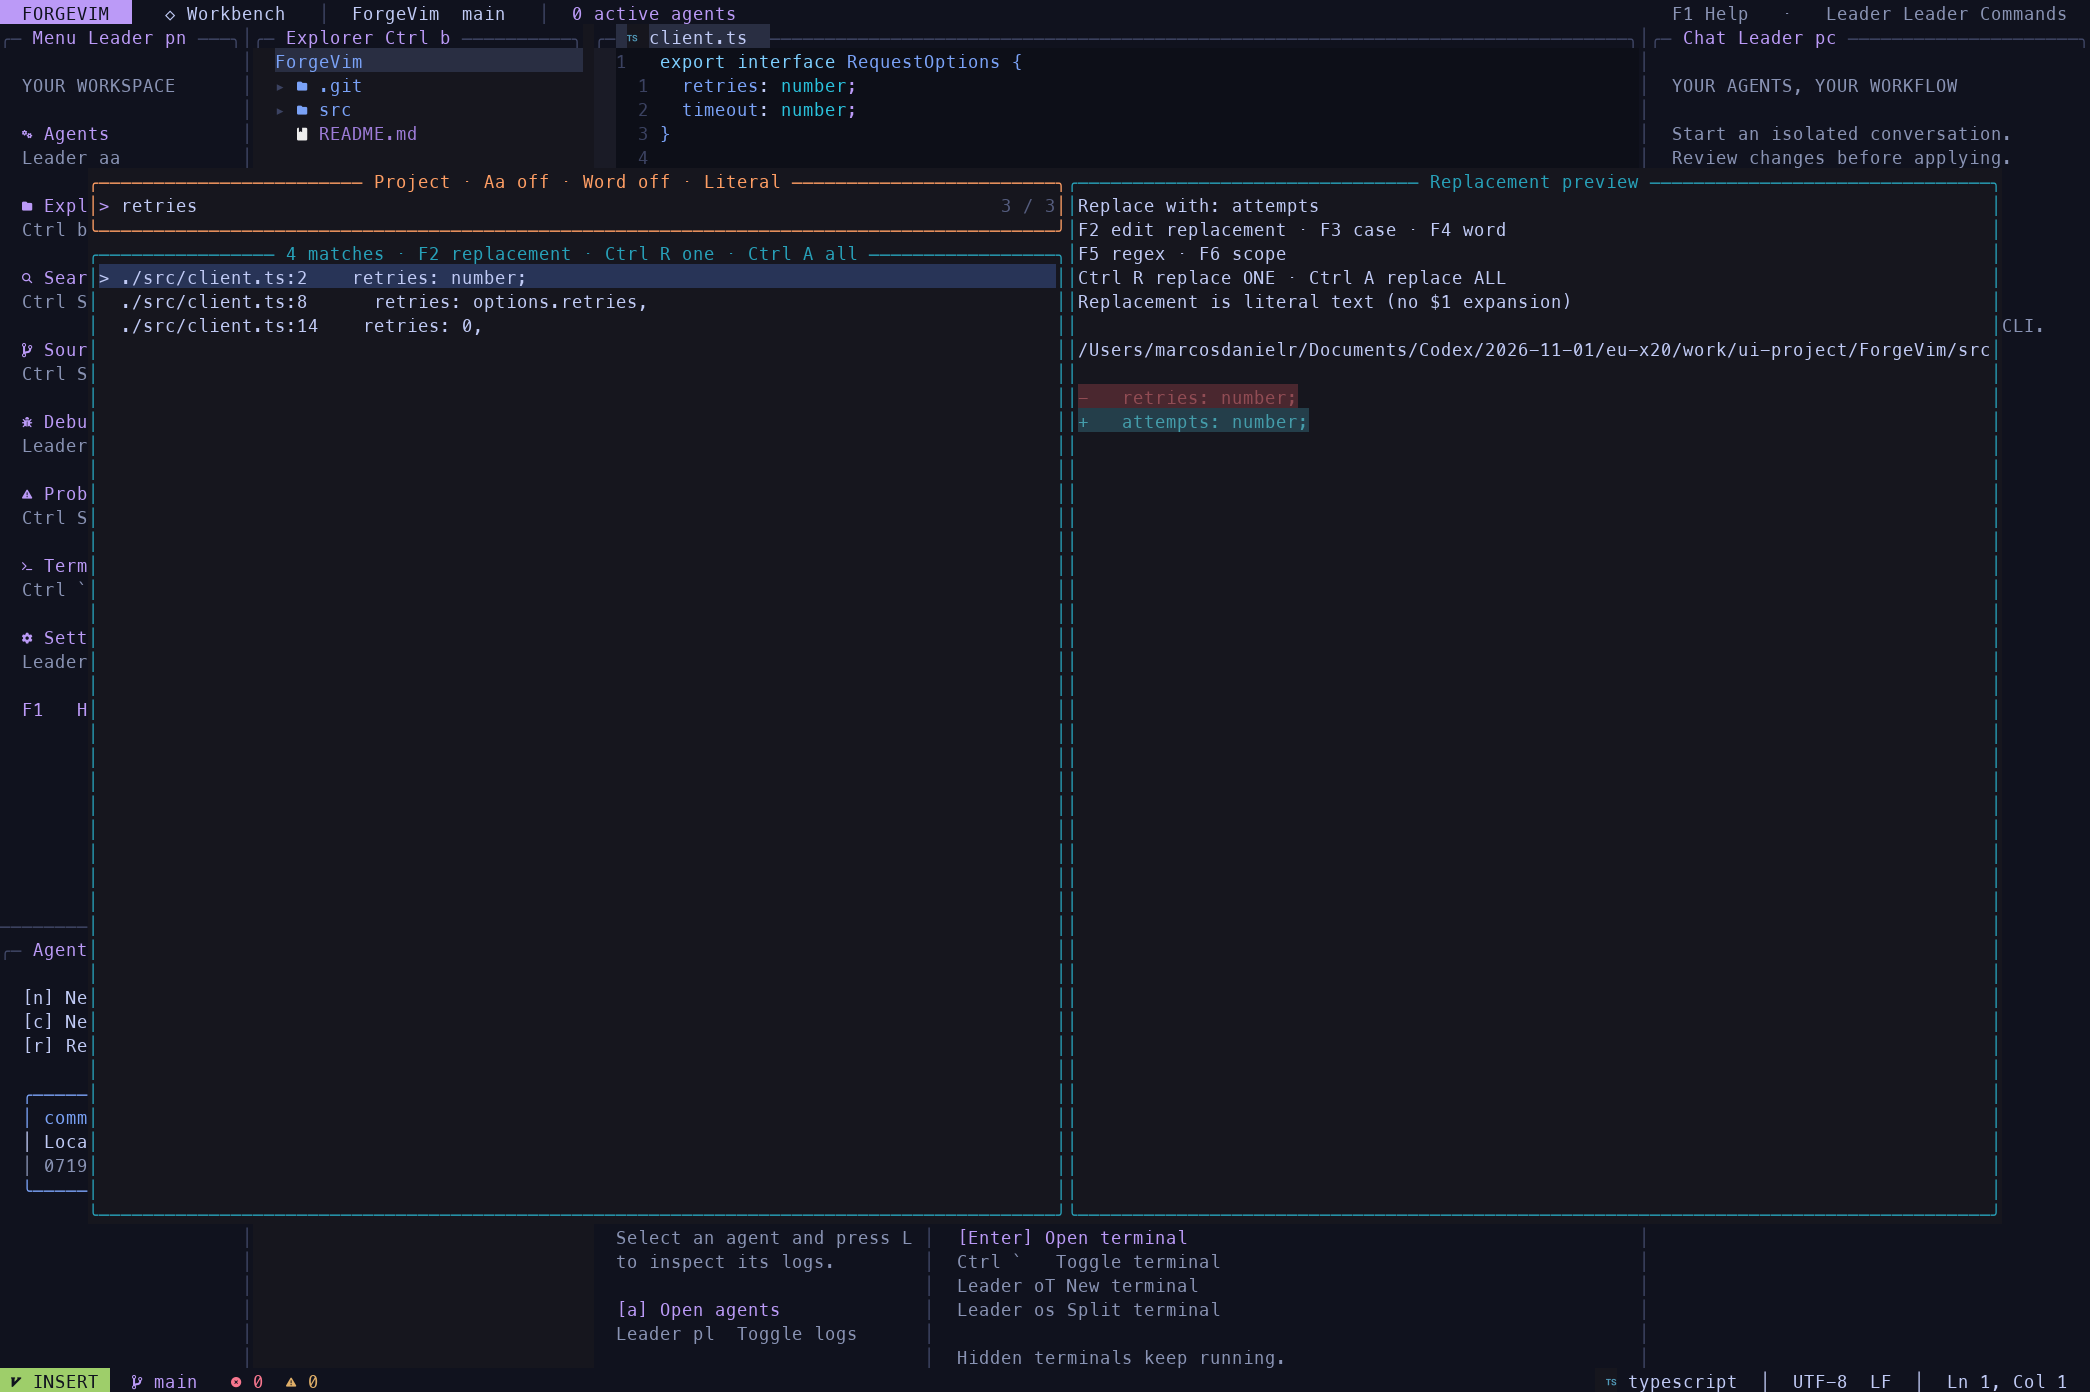
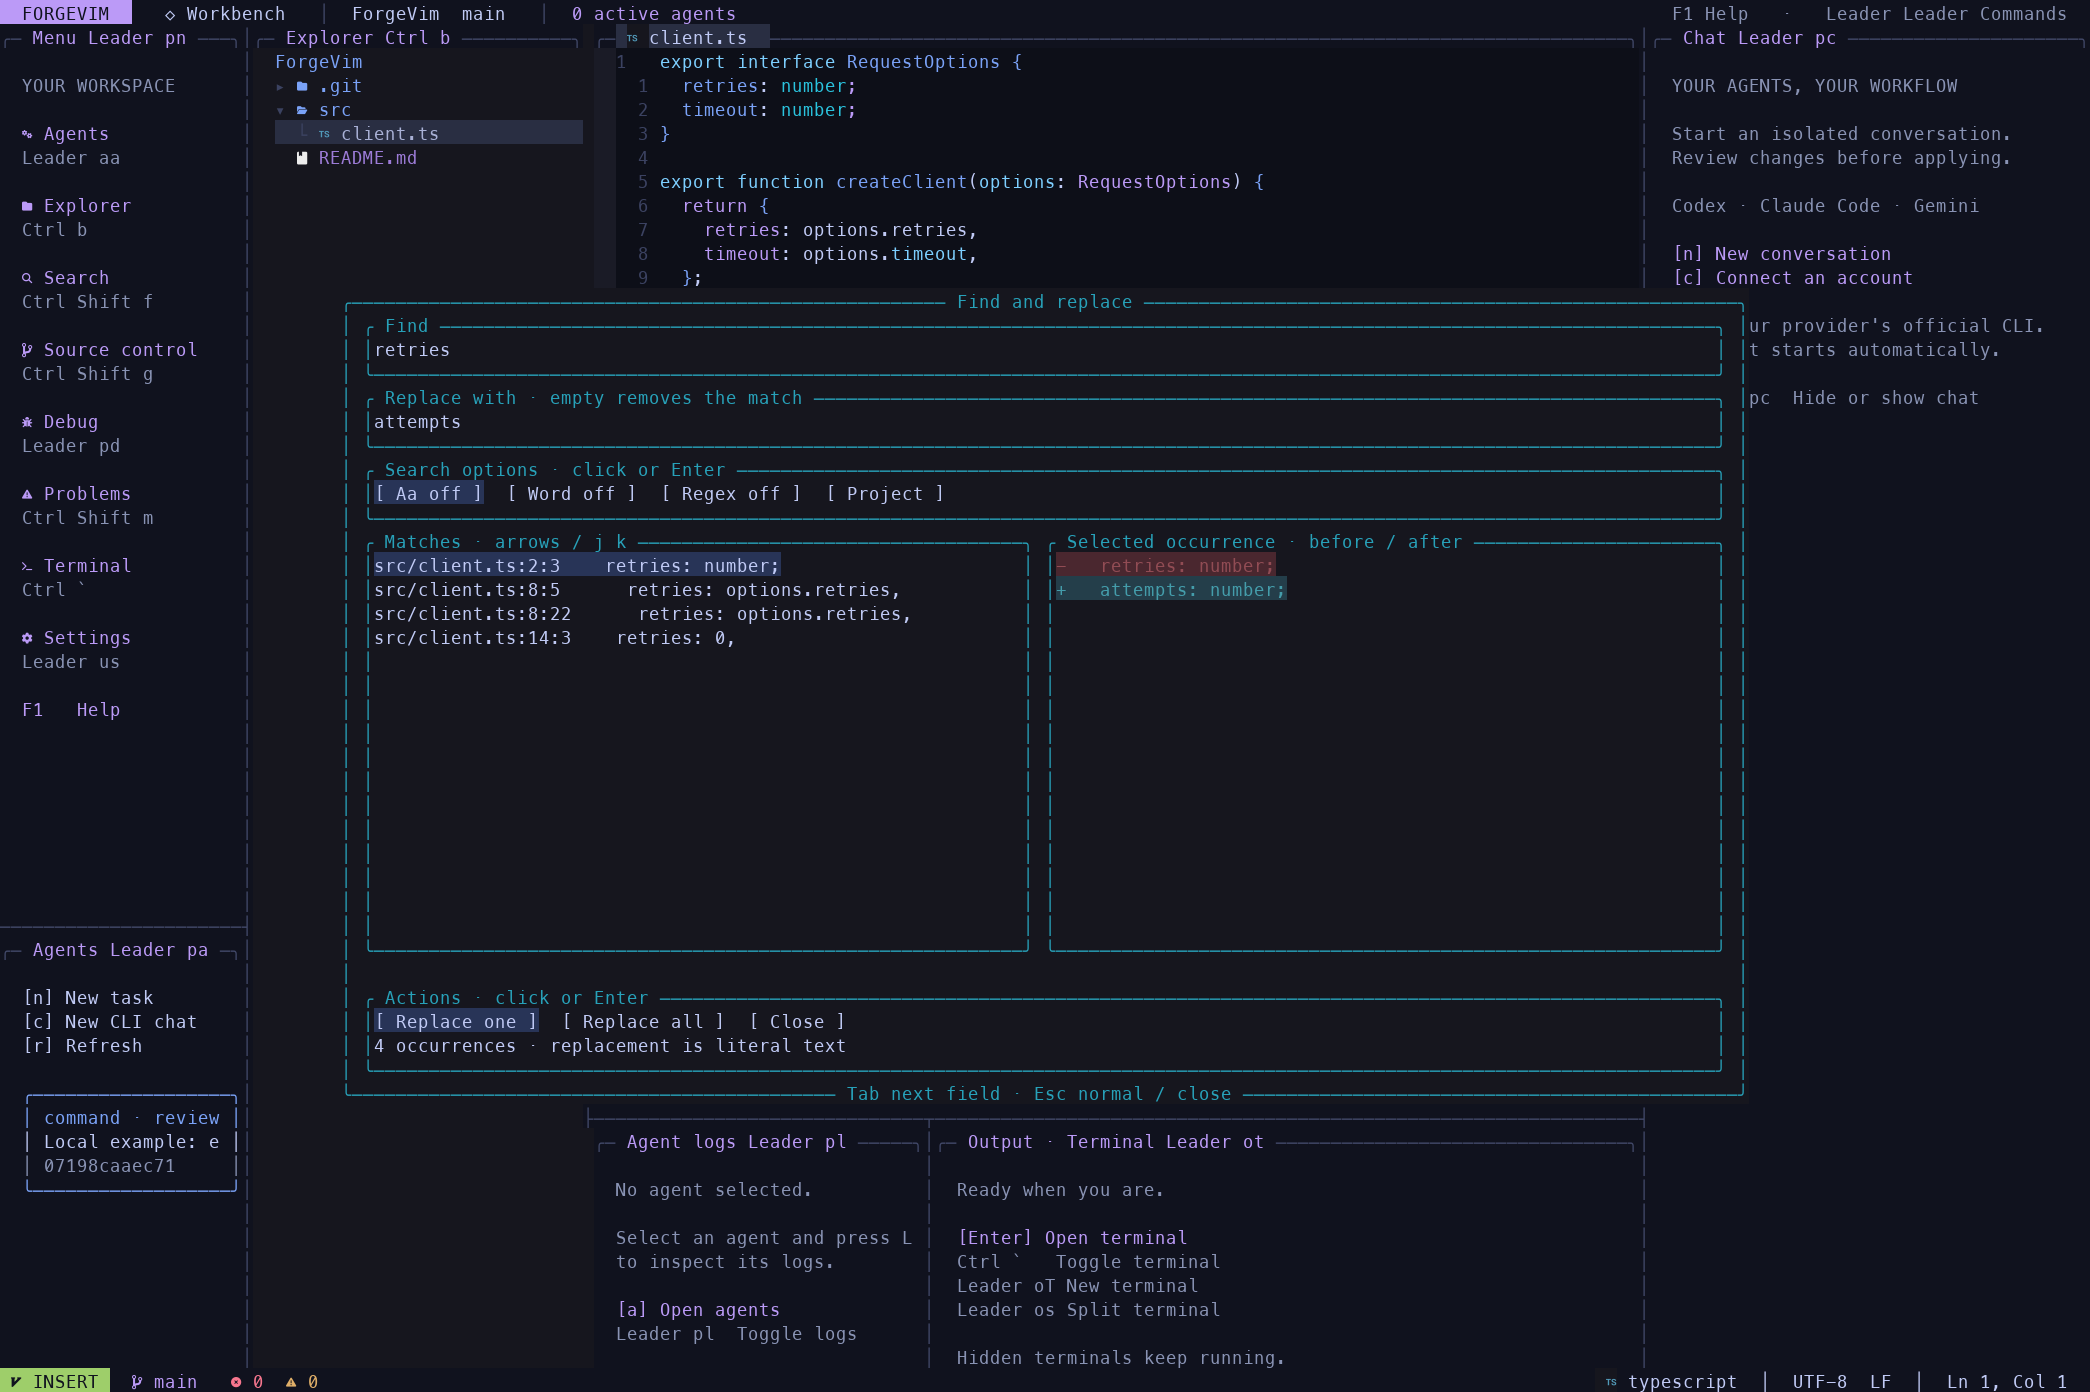
docs: explain replacement and deployment recovery

diff --git a/docs/business-rules.md b/docs/business-rules.md
@@ -115,7 +115,7 @@ plugin integration, machine setup record, and docs/languages.md.
 - **BR-AG-16**: Hiding chat keeps its owned process live while the editor is open. CLI output and logs remain separate from control JSON; ending an editor session does not imply reattachment later.
 - **BR-ED-14**: Hiding a terminal panel preserves its jobs, buffers, scrollback, and split group. Only explicit job termination or the editor terminal lifecycle can stop it.
 - **BR-ED-15**: Explorer h/l collapses/opens; j/k remains native. Ctrl H/J/K/L stays configurable across normal and Forge terminal modes. Plain source-buffer motions and insert controls remain intact.
-- **BR-ED-16**: Search/replacement scope, match-case, whole-word, and regex are visible options. Opening preview never modifies files; replacement requires an explicit one/all action in the Telescope picker.
+- **BR-ED-16**: Search/replacement scope, match-case, whole-word, and regex are visible options. Opening preview never modifies files; replacement requires an explicit one/all action in the replacement dialog.
 - **BR-ED-17**: Existing modified buffers remain available while panels and buffers switch. Startup may add panels around explicit files but must not replace file contents or stdin.
 - **BR-ED-18**: Visible task status comes from persisted real tasks. The UI must not fabricate agent roles, progress, test results, model activity, or system metrics.
 
@@ -183,7 +183,7 @@ real Dart language-server test.
   are distinct from hide/show. Ctrl Space/Ctrl @ provides a legacy NUL fallback
   outside insert mode; insert completion remains unchanged. Terminal headers expose
   New/Split/List with real session counts. Shell jobs survive hiding and switching.
-- **BR-ED-28**: Search preview never changes files. Replace one applies exactly one occurrence, including repeated matches on one line. Replace all requires confirmation and complete search results. Unsaved buffers, changed source lines, and non-writable files block application. Regex applies to search; replacement text is literal.
+- **BR-ED-28**: Find, replacement, options, and actions remain visible in one dialog. Changing fields must preserve the search session. Mouse and keyboard share the same actions. Replace-all confirmation initially selects Cancel. Search preview never changes files. Replace one applies exactly one occurrence, including repeated matches on one line. Replace all requires confirmation and complete search results. Unsaved buffers, changed source lines, and non-writable files block application. Regex applies to search; replacement text is literal.
 
 Owners: `scripts/installer`, `install.sh`, `features/terminal`,
 `features/search/preview`, and the named action registry.

diff --git a/README.md b/README.md
@@ -279,13 +279,16 @@ message UI or an autonomous multi-agent plan/DAG.
 
 ## Search and replace
 
-Leader f r opens project search in a floating Telescope picker; Leader f R targets
-the current file. Type a query, use F2 to set replacement text, and inspect the
-before/after preview. Ctrl R replaces one occurrence; Ctrl A replaces all after
-confirmation. F3 toggles case matching, F4 whole words, F5 regex search, and F6
-file/project scope. Replacement text is literal; capture expansion is not provided.
-Unsaved buffers and changed search results are protected. Refine searches with
-more than 2000 matching lines before Replace all.
+Leader f r opens project search; Leader f R targets the current file. The floating
+dialog keeps **Find**, **Replace with**, search options, results, and actions visible.
+Use Tab to move between fields. Select an occurrence, then click **Replace one** or
+**Replace all**. Keyboard users can Tab to Actions, use Left/Right, and press Enter.
+Replace all asks for confirmation; Cancel is selected initially. Ctrl R and Ctrl A
+remain optional one/all shortcuts. F3 toggles case matching, F4 whole words, F5
+regex search, and F6 file/project scope. Replacement text is literal; capture
+expansion is not provided. Unsaved buffers and changed search results are protected.
+Refine searches with more than 2000 occurrences before Replace all. Esc leaves
+Insert mode; a further Esc closes the dialog.
 
 ## Performance checks
 
@@ -329,7 +332,7 @@ For a transport-independent fallback, use Leader o t. In terminal mode, Tab stil
 belongs to the shell. A real-PTY test verifies NUL and Alt Enter input plus multiple
 live shells and Agents hide/show.
 
-The Telescope replacement picker exposes one/all actions with a preview. Direct grug-far commands remain available as an advanced alternative.
+The replacement dialog exposes visible one/all buttons with a preview. Direct grug-far commands remain available as an advanced alternative.
 
 ForgeVim retains the `forge` command and the `forge.nvim` XDG profile name for compatibility. Existing personal plugins, logins, settings, installer metadata, and SSD checkout paths remain valid after the repository rename.
 

diff --git a/docs/validation.md b/docs/validation.md
@@ -101,4 +101,17 @@ clocks. Shared event-driven status updates retain the active-task polling fallba
 
 ## Reader experience and replacement workflow
 
-The reader site uses Astro MDX collections and genuine Neovim UI captures. Screenshots show an example workspace and a local command-provider task, not authenticated model inference. Browser verification uses the internal browser. The editor checks cover separate theme identity and syntax colors, responsive dashboard wordmarks, individual byte-range replacement, repeated matches on one line, UTF-8, paths with spaces, stale results, unsaved buffers, and the installed Telescope picker. Copilot configuration is present but provider authentication and live completion are not verified by these checks.
+The reader site uses Astro MDX collections and genuine Neovim UI captures. Screenshots show an example workspace and a local command-provider task, not authenticated model inference. Browser verification uses the internal browser. The editor checks cover separate theme identity and syntax colors, responsive dashboard wordmarks, individual byte-range replacement, repeated matches on one line, UTF-8, paths with spaces, stale results, unsaved buffers, and the native replacement dialog. Copilot configuration is present but provider authentication and live completion are not verified by these checks.
+
+## Replacement focus regression and deployment recovery
+
+The original separate replacement popup triggered Telescope's BufLeave cleanup,
+closing the search picker during editing. The multi-field native dialog removes
+that lifecycle conflict. The TUI regression exercises real terminal keyboard and
+SGR mouse input: field switching, text entry, repeated individual replacements,
+all-action cancellation and confirmation, UTF-8, and resize preservation.
+Installed-plugin integration also covers repeated matches on one line.
+
+The Vercel project previously used apps/web as its root while the checked-in
+configuration expects the repository root. Project settings were aligned with
+vercel.json and the rebuilt production deployment reached Ready.

diff --git a/docs/architecture.md b/docs/architecture.md
@@ -165,4 +165,4 @@ Reader documentation lives in typed Astro MDX collections under `apps/web/src/co
 
 Developer tools are grouped under `scripts/verify`, `scripts/benchmarks`, `scripts/setup`, and `scripts/deploy`. The stable `scripts/install.py` entry point and installer package retain their installation contract. See `scripts/README.md` for commands.
 
-Search replacement uses Telescope for presentation, an asynchronous ripgrep finder, and a byte-range replacement service. The finder caps displayed results at 2000 matching lines and disables Replace all for truncated results. Replacement preflights every affected file before mutation, preserves UTF-8 byte boundaries, and writes through native buffers. File-write errors are reported; multi-file writes are not a cross-file filesystem transaction. The legacy grug-far adapter remains available for its existing direct workflow.
+Search replacement uses a native multi-field floating dialog, an asynchronous ripgrep query, and a byte-range replacement service. The dialog owns its focus and lifetime independently of Telescope, whose BufLeave lifecycle cannot support a separate editable replacement field. Search changes debounce for 100 ms and cancel older queries. Each result represents one occurrence. The query caps results at 2000 occurrences and disables Replace all for truncated results. Visible one/all buttons accept mouse and keyboard; all-action confirmation initially selects Cancel. Replacement preflights every affected file before mutation, preserves UTF-8 byte boundaries, and writes through native buffers. File-write errors are reported; multi-file writes are not a cross-file filesystem transaction. The legacy grug-far adapter remains available for its existing direct workflow.

diff --git a/docs/requirements.md b/docs/requirements.md
@@ -10,7 +10,7 @@ roadmap intent. Business constraints are in [business rules](https://github.com/
 | --- | --- | --- | --- |
 | FR-01 | Launch an isolated Neovim app without replacing existing configuration. Native operators/registers still work. | Implemented | make smoke |
 | FR-02 | Expose a searchable command palette, themes, and plugin choices without mandatory Lua editing. Choices persist. Forge Mint has a separate identity and does not alter Tokyo Night after theme switching. | Implemented | Plugin integration and state smoke |
-| FR-03 | Find files/text by file or Git project; preview textual replacement; rename symbols through LSP. | Implemented | Telescope occurrence replacement integration; real Pyright rename smoke |
+| FR-03 | Find files/text by file or Git project; preview textual replacement; rename symbols through LSP. | Implemented | Native occurrence replacement integration; real Pyright rename smoke |
 | FR-04 | Provide LSP/path/snippet/buffer autocomplete and opt-in Copilot inline suggestions. | Implemented; live Copilot auth unverified | Blink API integration; user authentication required |
 | FR-05 | Preserve VIMarcos language formatter inventory and expose opt-in tool installation. | Implemented | Conform integration; real StyLua formatting smoke |
 | FR-06 | Provide breakpoints, stepping, scopes, stack, watches, and DAP profiles for Python, Go, Node, PHP, and native binaries. | Implemented profiles; all runtimes not verified | DAP config integration; real debugpy smoke |

diff --git a/docs/deployment.md b/docs/deployment.md
@@ -31,3 +31,12 @@ external account connection or domain is configured.
 References: [Vercel Git configuration](https://vercel.com/docs/project-configuration/git-configuration),
 [ignored build command](https://vercel.com/docs/project-configuration/vercel-json#ignorecommand),
 and [Corepack](https://vercel.com/docs/builds/configure-a-build#corepack).
+
+## Recovering an output-directory failure
+
+If Astro completes but Vercel reports STATIC_BUILD_NO_OUT_DIR, verify the project
+root before changing Astro's output. This monorepo uses the repository root
+(the dashboard shows `.`; the API stores `rootDirectory: null`) and
+`apps/web/dist` as the output directory. The ignored-build script also runs from
+that root. Do not set the project root to `apps/web` with the root-level
+configuration. Redeploy after correcting project settings.
